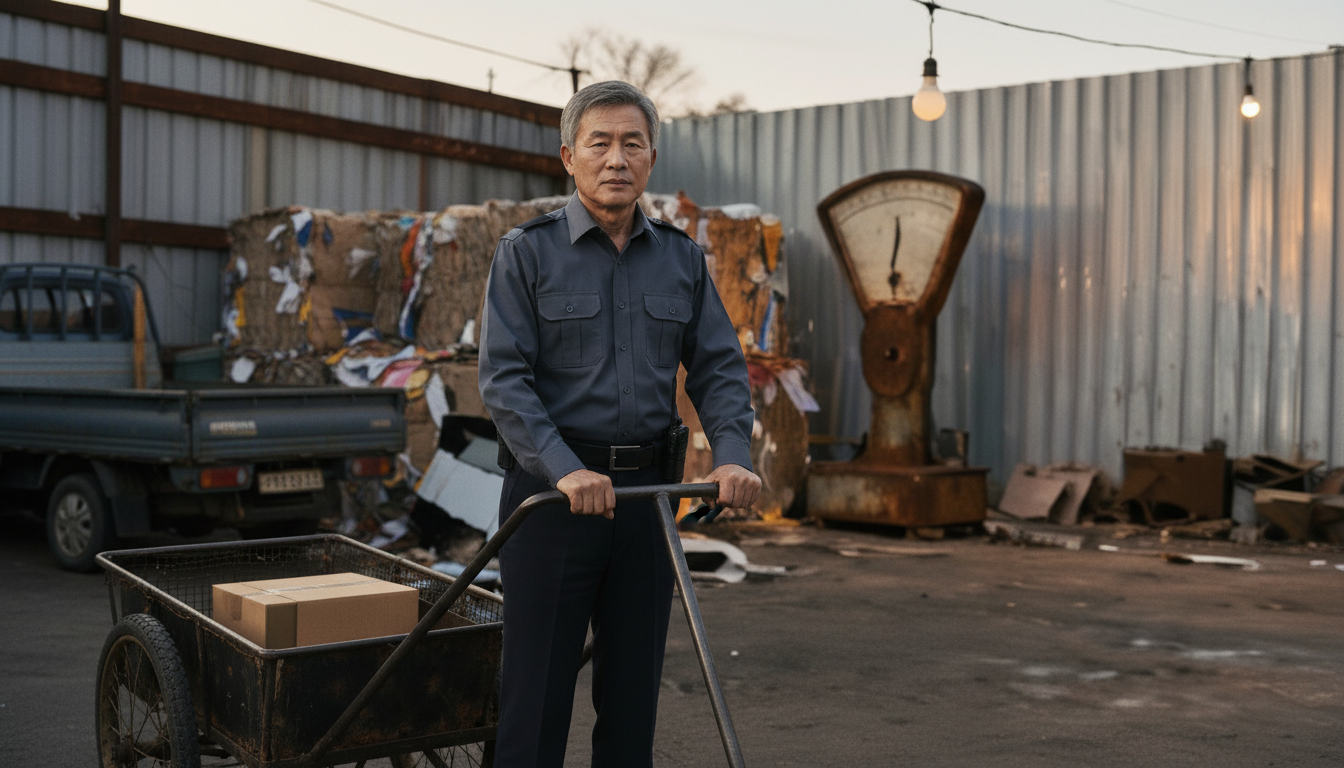
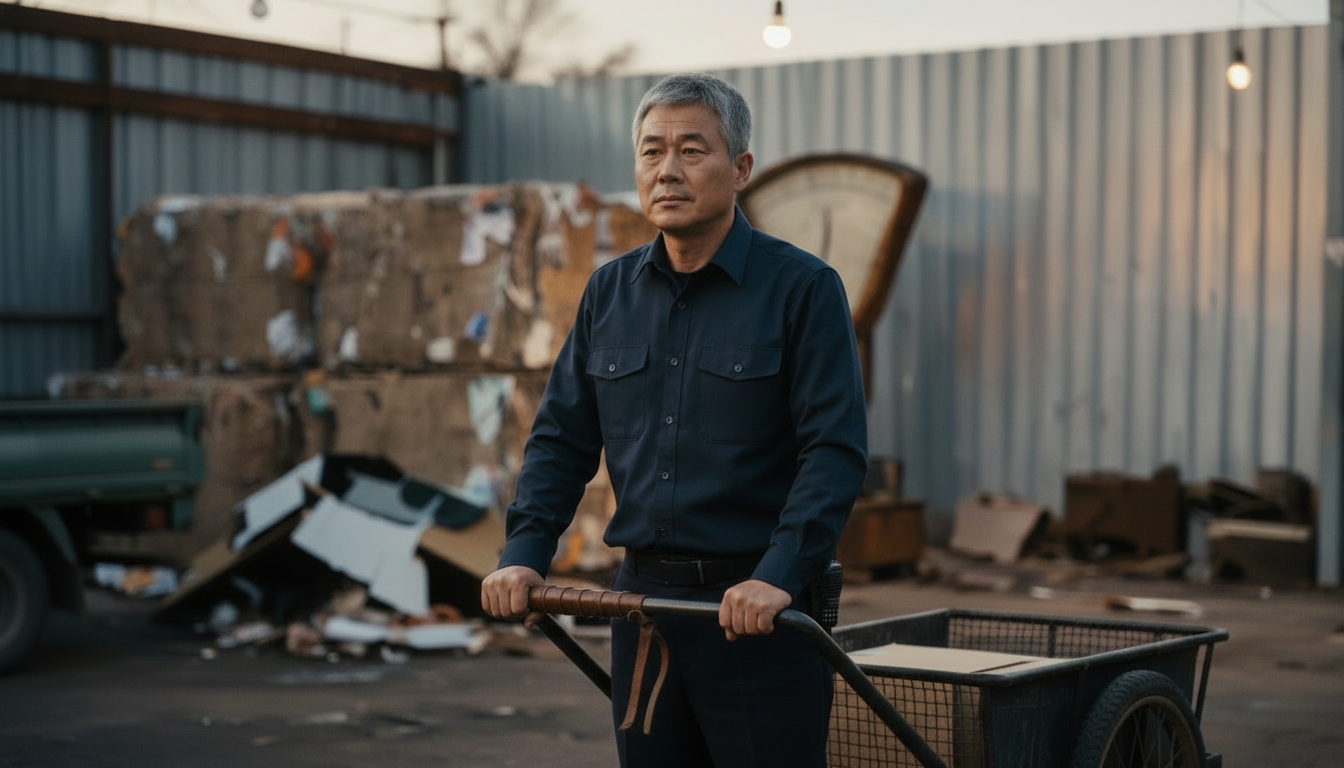
EP3 S29 손잡이 인페인팅본 채택 — 리어카 등장 컷 끌채 설계 통일 완료, 기록
Claude-Session: https://claude.ai/code/session_01AeoQmDXLUZEJdLTemjg1sM

diff --git a/docs/EP3-PHASE4-키프레임.md b/docs/EP3-PHASE4-키프레임.md
@@ -78,3 +78,8 @@
 - 36장 재생성 → 26장 채택(장소 세트·의상·리어카 통일), 10장은 이전 판(`_v2/`) 유지: S31·S38(시트 패널 누출), S17·S35(앵커 낮 조명에 끌려 시간대 역행), S09·S25·S29·S42·S43·S06(앵커 자세에 끌려 구도·동작 이탈).
 - 교훈: 연속성 앵커는 세트 일치에는 효과적이나 시간대·동작까지 끌어온다 → 야간/동작 컷은 앵커 없이 생성하거나 동작 문장을 강하게 명시해야 한다.
 - 추가 유료 생성: 36 + 2 = 38장(약 1.5달러). 누적 키프레임 생성 약 120장.
+
+## 4-6. 끌채 손잡이 2차 통일 (2026-10-02, 사용자 지적 "끌채로 일관성 안 됨")
+- 원인: 시트 전체(2x2)를 한 장으로 참조하면 모델이 손잡이 패널을 약하게 따름 → 셀 2장(3/4 앞모습 `cells/cart-front34.png`, 손잡이 클로즈업 `cells/cart-handle.png`)을 별도 참조 + "끌채 한 개·가로 손잡이 한 개, U자·두 줄·밀대 금지" 문장.
+- 불합격 5장(S09·S26·S29·S37·S42) 재생성: S09·S26·S37·S42 합격(연속성 앵커 제외 후). S29는 3회 모두 U자로 나와 손잡이만 인페인팅 교체 → 합격.
+- 추가 유료 생성 10장(약 0.4달러). 리어카 등장 컷 전부 끌채 설계 일치 확인.
